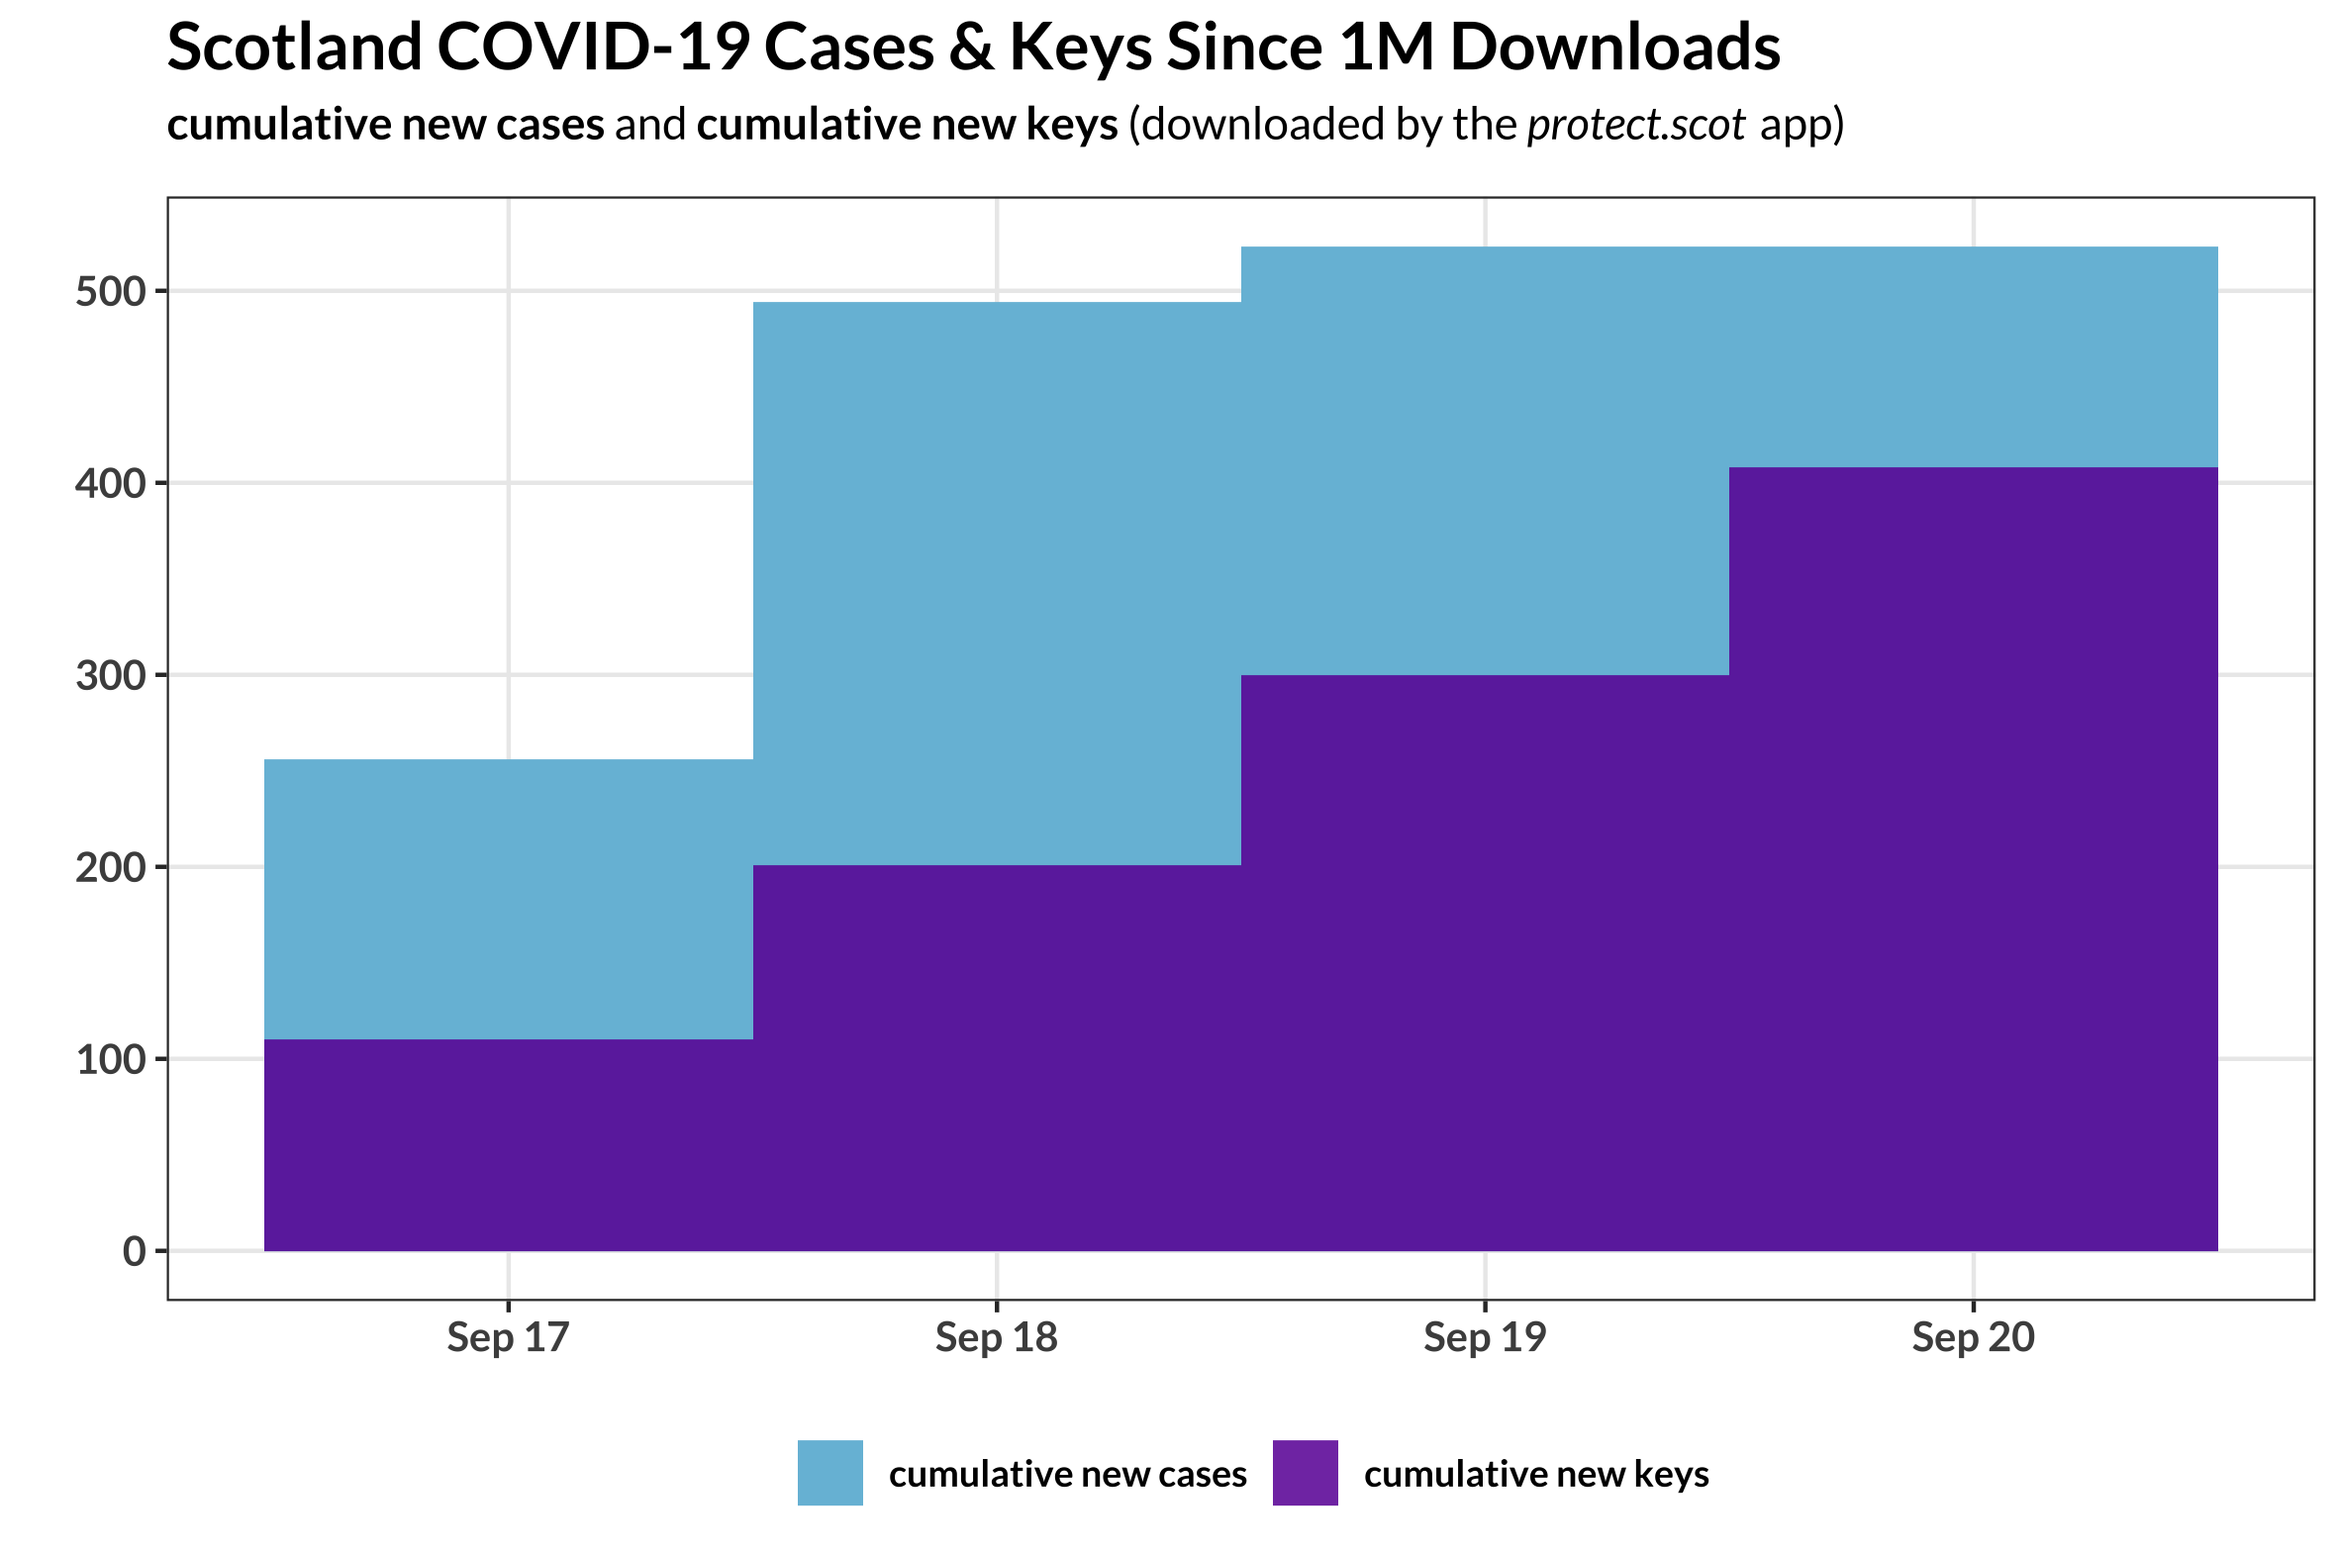
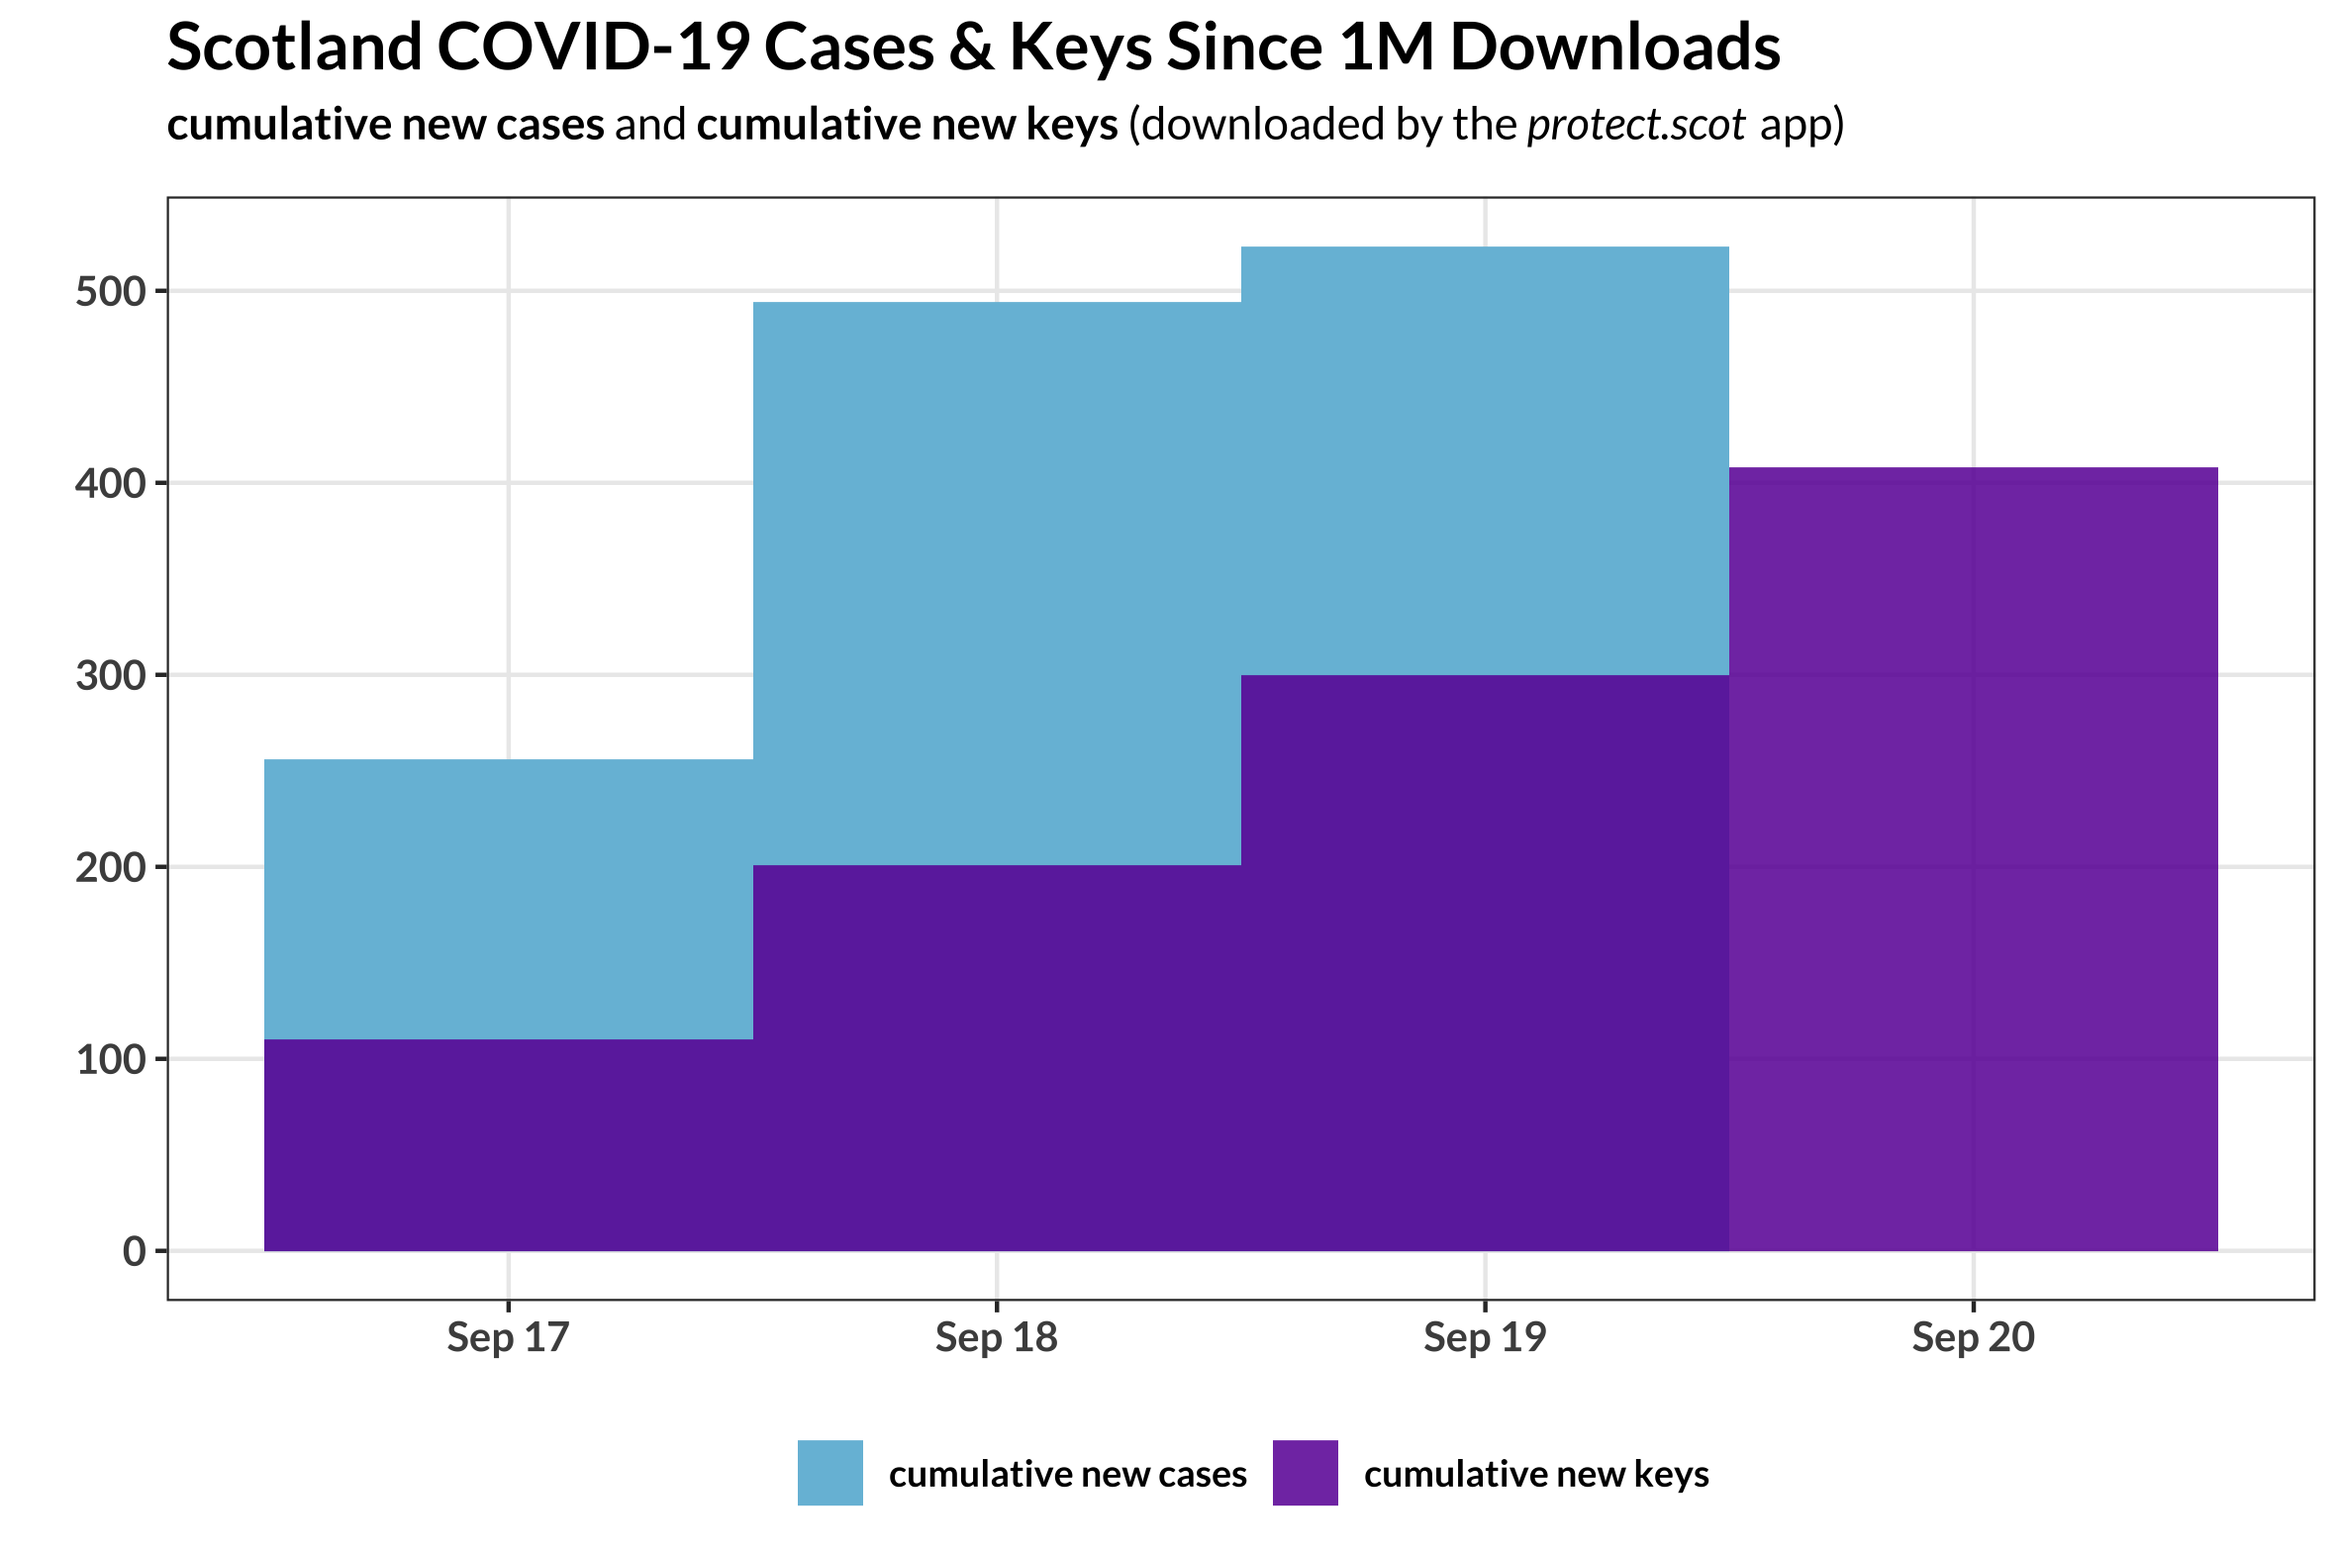
fix to cumulative plots

Changed region(s): [[0.7417, 0.1561, 0.9581, 0.3121]]

diff --git a/README.md b/README.md
@@ -39,7 +39,7 @@ Here's the cumulative count of cases and keys downloaded (from the first day of 
 ![](/pics/plot_cum_cases_keys.png)
 
 ## Cumulative Cases / Keys Since Septermer 17th
-The app reached one million downloads on September 17th, and starting from then we can see that about 4/5 new cases have been registered. Although note that as this is only a few days worth of data (and relative lag may be of the order of a few days), this is quite speculative.
+The app reached one million downloads on September 17th, and starting from then we can see that about 3/5 new cases have been registered. Although note that as this is only a few days worth of data (and relative lag may be of the order of a few days), this is quite speculative.
 
 ![](/pics/plot_cum_cases_keys_sep17.png)
 
